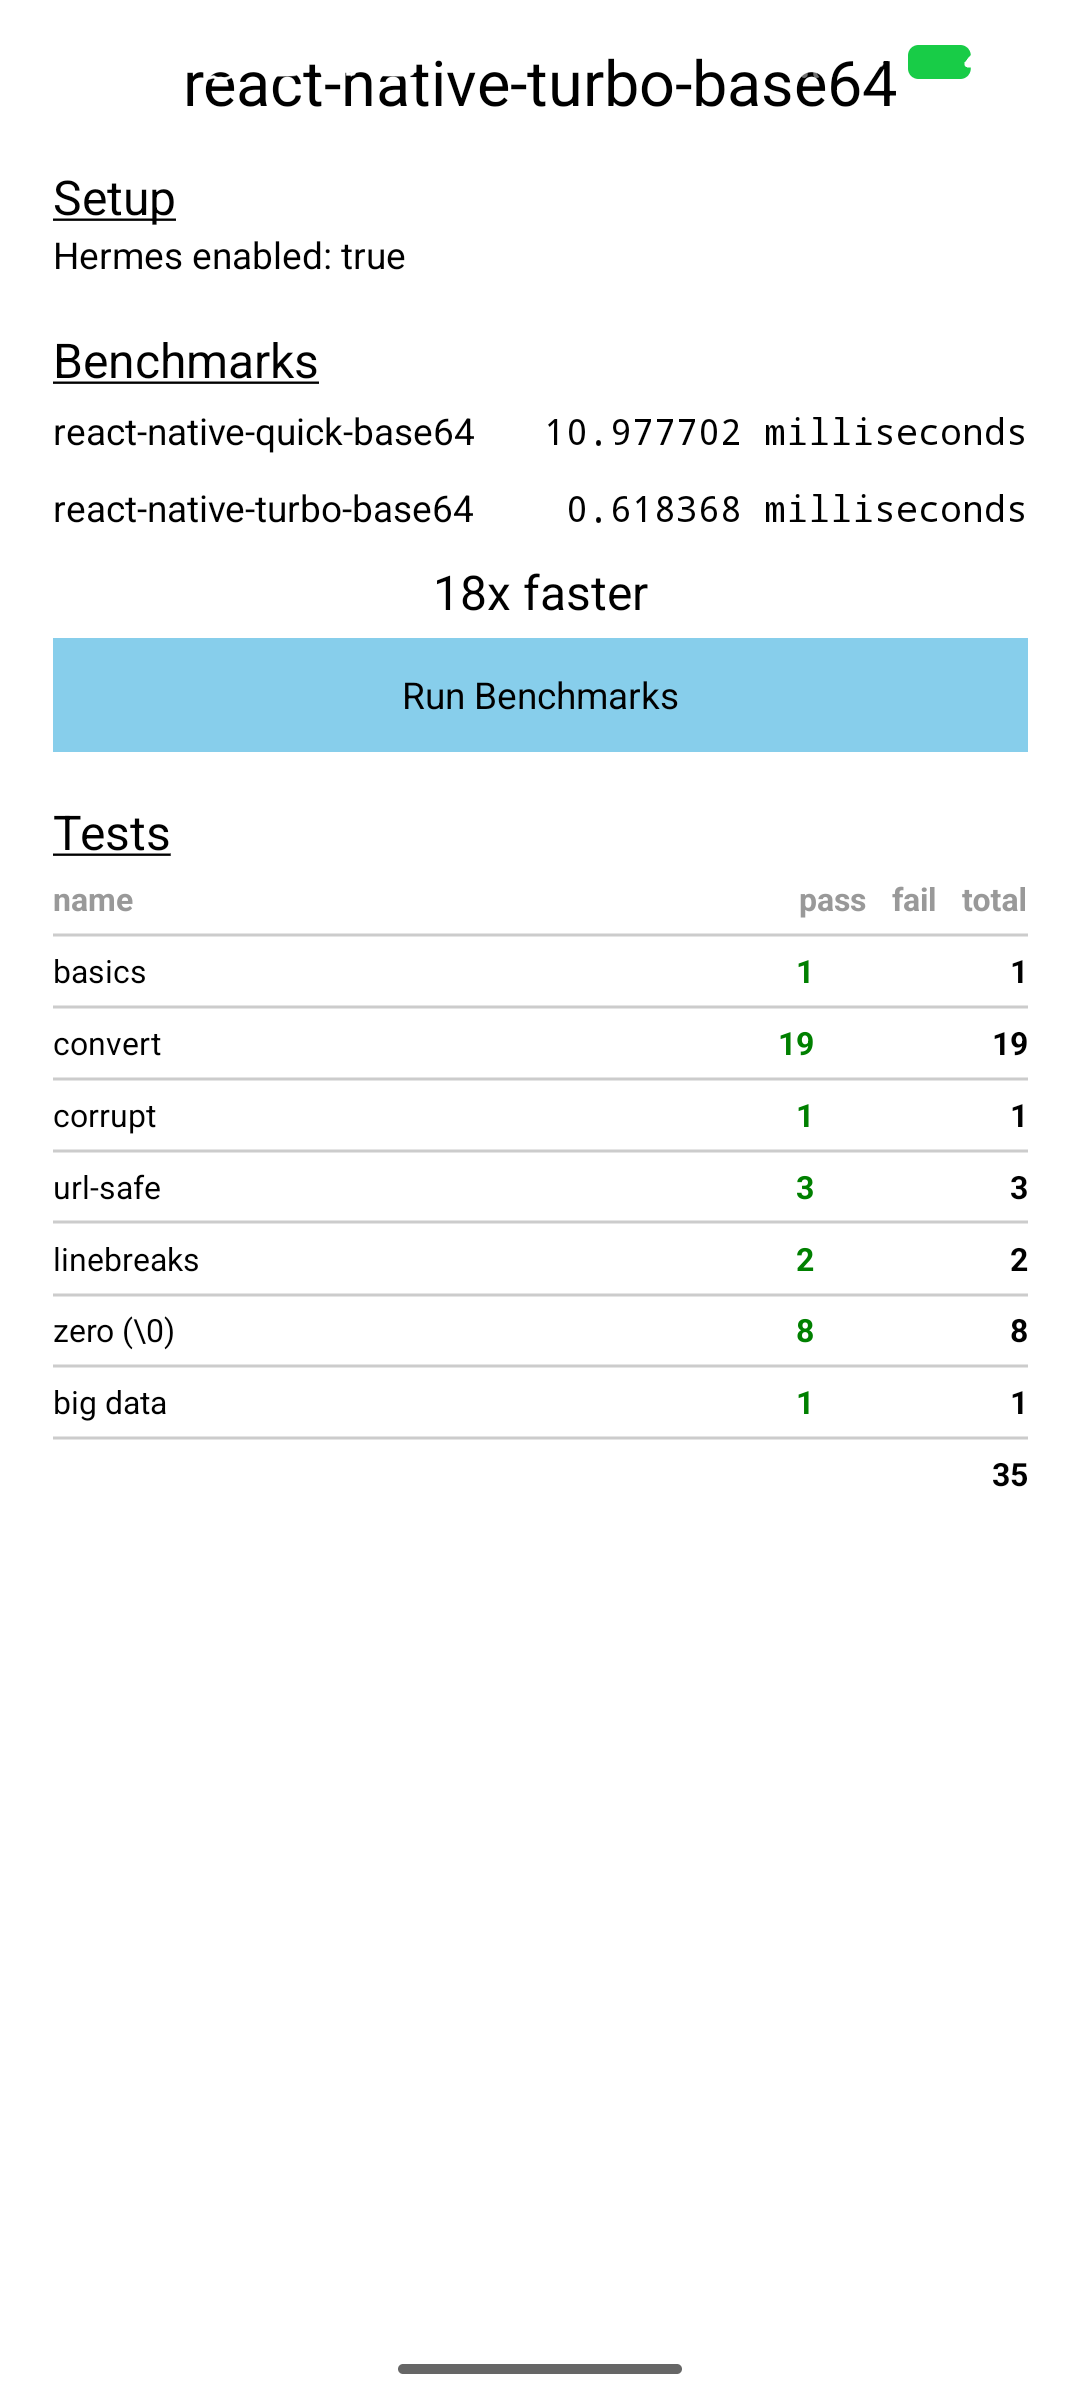
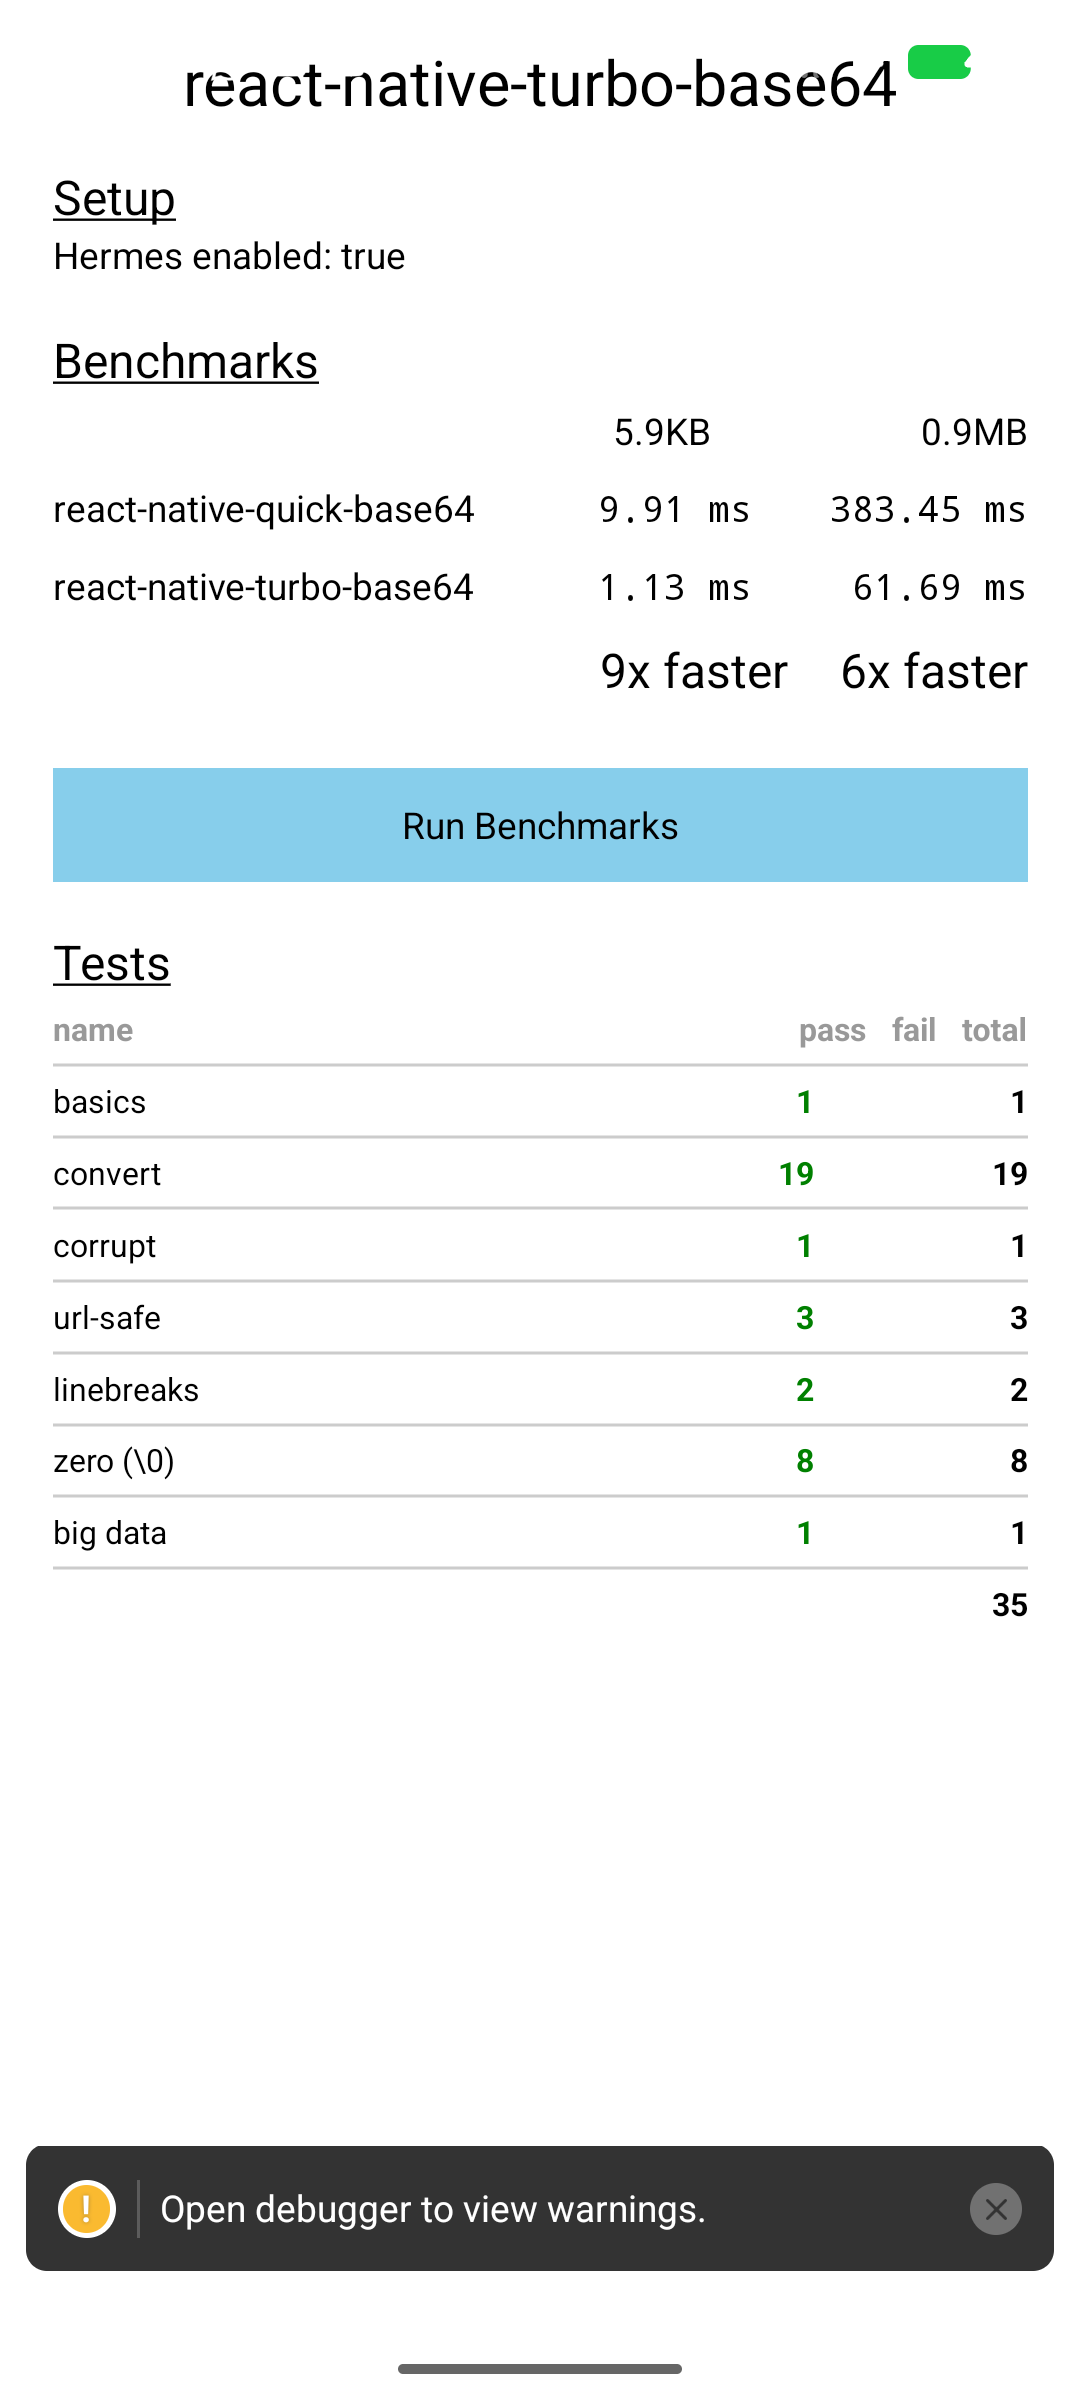
chore: refactoring + small optimizations

Changed region(s): [[0.0306, 0.1562, 0.9778, 0.6875], [0.0, 0.875, 0.9778, 0.9688]]

diff --git a/example/src/Benchmarks.tsx b/example/src/Benchmarks.tsx
@@ -1,33 +1,29 @@
 /* global performance */
 import { useState } from 'react'
 import { StyleSheet, View, Text, Pressable, Platform } from 'react-native'
-// import jsBase64 from 'base64-js'
-import {fromByteArray as fromByteArrayTurbo,toByteArray as toByteArrayTurbo } from 'react-native-turbo-base64'
+import { fromByteArray as fromByteArrayTurbo, toByteArray as toByteArrayTurbo } from 'react-native-turbo-base64'
 import { toByteArray, fromByteArray } from 'react-native-quick-base64'
-import { data } from './image.json'
+// 5.3 KB
+import { data as smallData } from './image.json'
+// 1.2 MB
+import { data as bigData } from './image-large.json'
 
 
-const sleep = (t: number) => new Promise(resolve => setTimeout(resolve, t))
 
 const round = (num: number, decimalPlaces = 0): string => {
   return num.toFixed(decimalPlaces)
 }
 
 const Benchmarks = () => {
-  const [processingTurbo64, setProcessingTurbo64] = useState<boolean>(false)
-  const [Turbo64Result, setTurbo64Result] = useState<number>(0)
-  const [processingNativeBase64, setProcessingNativeBase64] =
-    useState<boolean>(false)
-  const [nativeBase64Result, setNativeBase64Result] = useState<number>(0)
+  const [turbo64SmallResult, setTurbo64SmallResult] = useState<number>(0)
+  const [isProcessing, setIsProcessing] = useState<boolean>(false)
+  const [turbo64BigResult, setTurbo64BigResult] = useState<number>(0)
+  const [nativeBase64SmallResult, setNativeBase64SmallResult] = useState<number>(0)
+  const [nativeBase64BigResult, setNativeBase64BigResult] = useState<number>(0)
 
-  const handleNativeBase64Press = async () => {
-    setProcessingNativeBase64(true)
+  const handleNativeBase64 =  (data: string) => {
     let dataToProcess = data
-    await sleep(1)
-
-    //warm up
-    const decoded = toByteArray(dataToProcess)
-    fromByteArray(decoded)
+    // await sleep(1)
 
     const startTime = performance.now()
 
@@ -40,40 +36,66 @@ const Benchmarks = () => {
     }
     const finishedTime = performance.now()
     console.log('done! took', finishedTime - startTime, 'milliseconds')
-    setNativeBase64Result(finishedTime - startTime)
-    setProcessingNativeBase64(false)
+    return finishedTime - startTime
   }
 
-  const handleTurbo64Press = async () => {
-    setProcessingTurbo64(true)
+  const handleTurbo64Press = (data: string) => {
     let dataToProcess = data
-    await sleep(1)
-    // warm up
-    const decoded = toByteArrayTurbo(dataToProcess)
-    fromByteArrayTurbo(decoded)
+    // await sleep(1)
+
     const startTime = performance.now()
 
     for (let iter = 0; iter < 30; iter++) {
       const decoded = toByteArrayTurbo(dataToProcess)
       dataToProcess = fromByteArrayTurbo(decoded)
+      if (dataToProcess !== data) {
+        throw new Error('Data does not match')
+      }
     }
     const finishedTime = performance.now()
     console.log('done! took', finishedTime - startTime, 'milliseconds')
-    setTurbo64Result(finishedTime - startTime)
-    setProcessingTurbo64(false)
+    return finishedTime - startTime
   }
-  const speedup =
-    Turbo64Result && nativeBase64Result
-      ?   round(nativeBase64Result/Turbo64Result) + 'x faster'
+
+
+  const runBenchmarks = async () => {
+    setIsProcessing(true)
+    
+    setNativeBase64SmallResult(handleNativeBase64(smallData))
+    setTurbo64SmallResult(handleTurbo64Press(smallData))
+    setNativeBase64BigResult(handleNativeBase64(bigData))
+    setTurbo64BigResult(handleTurbo64Press(bigData))
+
+    setIsProcessing(false)
+  }
+
+
+  const speedupSmall =
+    turbo64SmallResult && nativeBase64SmallResult
+      ? round(nativeBase64SmallResult / turbo64SmallResult) + 'x faster'
+      : ' '
+
+  const speedupBig =
+    turbo64BigResult && nativeBase64BigResult
+      ? round(nativeBase64BigResult / turbo64BigResult) + 'x faster'
       : ' '
 
   return (
     <View>
+      <View style={{ flexDirection: 'row', alignSelf: 'flex-end', gap: 80 }}>
+        <Text style={styles.heading}>5.9KB</Text>
+        <Text style={styles.heading}>0.9MB</Text>
+      </View>
       <View style={styles.lib}>
         <Text style={styles.heading}>react-native-quick-base64</Text>
         <Text style={styles.result}>
-          {nativeBase64Result > 0
-            ? `${round(nativeBase64Result, 6)} milliseconds`
+          {nativeBase64SmallResult > 0
+            ? `${round(nativeBase64SmallResult, 2)} ms`
+            : ''}
+        </Text>
+        <Text style={styles.result}>
+          {nativeBase64BigResult > 0
+            ? `${round(nativeBase64BigResult, 2)} ms`
             : ''}
         </Text>
       </View>
@@ -81,21 +103,25 @@ const Benchmarks = () => {
       <View style={styles.lib}>
         <Text style={styles.heading}>react-native-turbo-base64</Text>
         <Text style={styles.result}>
-          {Turbo64Result > 0 ? `${round(Turbo64Result, 6)} milliseconds` : ''}
+          {turbo64SmallResult > 0 ? `${round(turbo64SmallResult, 2)} ms` : ''}
+        </Text>
+        <Text style={styles.result}>
+          {turbo64BigResult > 0 ? `${round(turbo64BigResult, 2)} ms` : ''}
         </Text>
       </View>
 
-      <Text style={styles.speedup}>{speedup}</Text>
-
+      <View style={{ flexDirection: 'row', alignSelf: 'flex-end', gap: 20 }}>
+        <Text style={styles.speedup}>{speedupSmall}</Text>
+        <Text style={styles.speedup}>{speedupBig}</Text>
+      </View>
       <Pressable
         onPress={() => {
-          handleNativeBase64Press()
-          handleTurbo64Press()
+          runBenchmarks()
         }}
         style={styles.button}
       >
         <Text style={styles.pressable}>
-          {processingNativeBase64 || processingTurbo64
+          {isProcessing
             ? 'Processing...'
             : 'Run Benchmarks'}
         </Text>
@@ -125,9 +151,11 @@ const styles = StyleSheet.create({
   },
   result: {
     fontFamily: Platform.OS === 'ios' ? 'Courier New' : 'monospace',
+    flex: 1,
+    textAlign: 'right',
     marginVertical: 5
   },
-  button: { backgroundColor: 'skyblue', padding: 12 },
+  button: { backgroundColor: 'skyblue', padding: 12, marginTop: 20 },
   speedup: {
     marginVertical: 5,
     fontSize: 18,

diff --git a/cpp/base64.h b/cpp/base64.h
@@ -62,7 +62,7 @@ alignas(64) static constexpr uint8_t decoding_table[256] = {
   0xFF,0xFF,0xFF,0xFF,0xFF,0xFF,0xFF,0xFF, 0xFF,0xFF,0xFF,0xFF,0xFF,0xFF,0xFF,0xFF
 };
 
-
+__attribute__((always_inline))
 inline size_t base64_decoded_length(const char* data, size_t n) noexcept {
     if (n < 4) return 0;
     if ((n & 3u) != 0) return 0;
@@ -95,9 +95,9 @@ inline bool base64_decode_fast(
   const uint8_t* const last = end - 4;
 
   while (p + 16 <= last) {
-    // Prefetch next block for better cache locality
+    // Prefetch next blocks for better cache locality
     #ifdef __GNUC__
-    __builtin_prefetch(p + 32, 0, 0);
+    __builtin_prefetch(p + 64, 0, 0);
     #endif
 
     // Block 1

diff --git a/cpp/react-native-turbo-base64.cpp b/cpp/react-native-turbo-base64.cpp
@@ -200,7 +200,7 @@ void rntb_base64::install(jsi::Runtime* runtime) {
           const size_t actual_size = base64_encode_fast(
               input_data, input_size, &result[0], output_size, url);
 
-          if (actual_size == 0 && input_size > 0) {
+          if (actual_size == 0 && input_size > 0)[[unlikely]] {
             throw jsi::JSError(runtime,
                                "base64FromArrayBuffer: encoding failed");
           }
